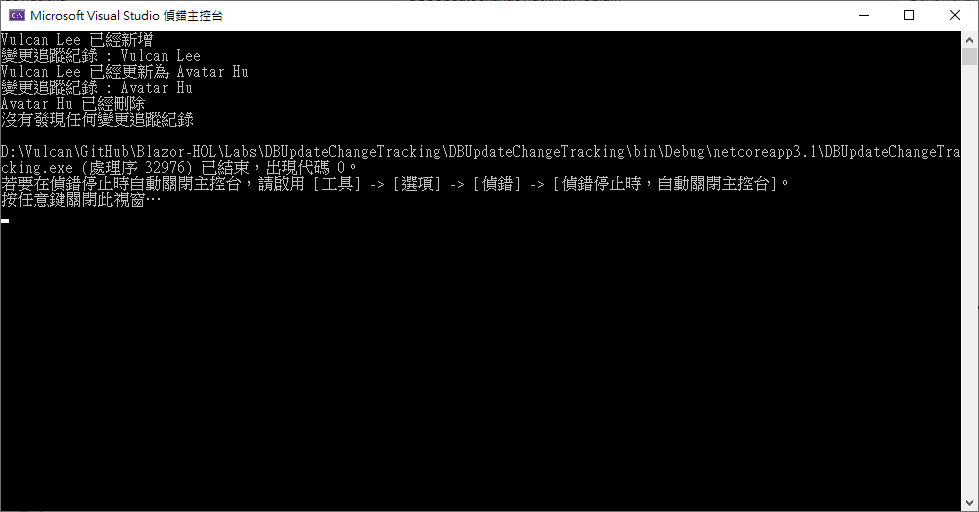
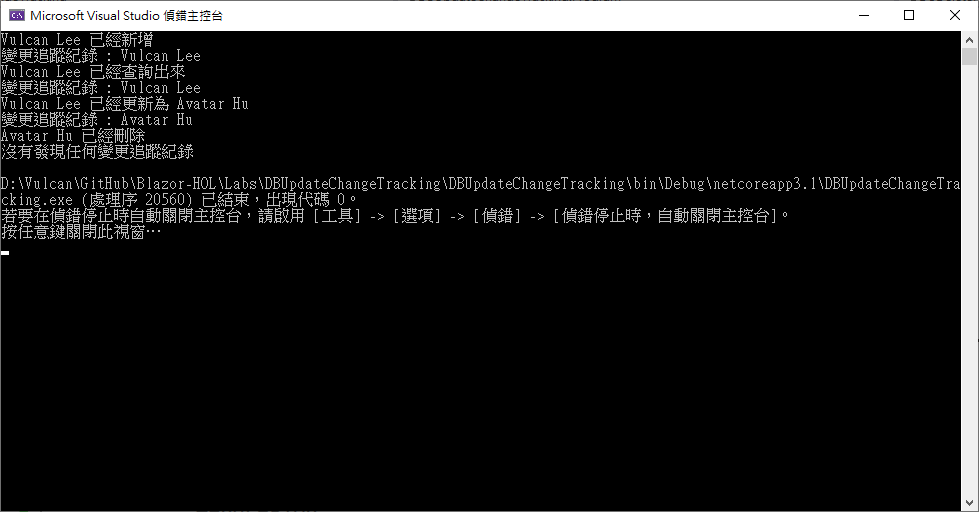
修正與回答 請回答 EF Core 的變更追蹤相關問題 的程式碼

diff --git a/Labs/DBUpdateChangeTracking/DBUpdateChangeTracking/Program.cs b/Labs/DBUpdateChangeTracking/DBUpdateChangeTracking/Program.cs
@@ -26,6 +26,8 @@ namespace DBUpdateChangeTracking
 
             #region 修改 person (Last Name: Lee , First Name : Avatar)
             Person searchPerson = await context.Person.FirstOrDefaultAsync(x => x.FirstName == "Vulcan");
+            Console.WriteLine($"Vulcan Lee 已經查詢出來");
+            ShowChangeTracking();
             Person updatePerson = searchPerson.Clone();
             updatePerson.LastName = "Hu";
             updatePerson.FirstName = "Avatar";
